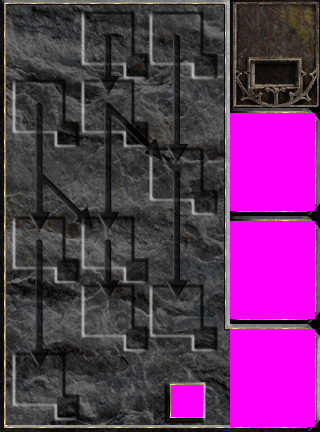
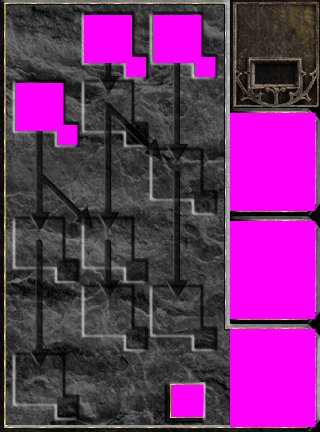
lam xong bang skill cho passive, chua lam resource nen thu tu skill se la tu` trái sang phải từ tren xuong dươi Chi co skill 2 khi click để cho len level thi bi crash

Changed region(s): [[0.25, 0.0301, 0.6875, 0.1806], [0.0312, 0.1806, 0.25, 0.3611]]

diff --git a/TheReturnOfTheKing/Misc/SkillBoard.cs b/TheReturnOfTheKing/Misc/SkillBoard.cs
@@ -310,47 +310,49 @@ namespace TheReturnOfTheKing
             get { return _passiveFrame; }
             set { _passiveFrame = value; }
         }
-
-        Button _btDamAndDefSkill;
-        public Button BtDamAndDefSkill
+        //Great Fortitude
+        Button _btGreatFortitude;
+        public Button BtGreatFortitude
         {
-            get { return _btDamAndDefSkill; }
-            set { _btDamAndDefSkill = value; }
+            get { return _btGreatFortitude; }
+            set { _btGreatFortitude = value; }
         }
 
-        Label _lbDamAndDefSkill;
-        public Label LbDamAndDefSkill
+        Label _lbbtGreatFortitude;
+        public Label LbbtGreatFortitude
         {
-            get { return _lbDamAndDefSkill; }
-            set { _lbDamAndDefSkill = value; }
+            get { return _lbbtGreatFortitude; }
+            set { _lbbtGreatFortitude = value; }
         }
 
-        Button _btMsAndAsSkill;
-        public Button BtMsAndAsSkill
+        //God Strength
+        Button _btGodStrength;
+        public Button BtGodStrength
         {
-            get { return _btMsAndAsSkill; }
-            set { _btMsAndAsSkill = value; }
+            get { return _btGodStrength; }
+            set { _btGodStrength = value; }
         }
 
-        Label _lbMsAndAsSkill;
-        public Label LbMsAndAsSkill
+        Label _lbGodStrength;
+        public Label LbGodStrength
         {
-            get { return _lbMsAndAsSkill; }
-            set { _lbMsAndAsSkill = value; }
+            get { return _lbGodStrength; }
+            set { _lbGodStrength = value; }
         }
 
-        Button _btMissSkill;
-        public Button BtMissSkill
+        //Blur
+        Button _btBlur;
+        public Button BtBlur
         {
-            get { return _btMissSkill; }
-            set { _btMissSkill = value; }
+            get { return _btBlur; }
+            set { _btBlur = value; }
         }
 
-        Label _lbMissSkill;
-        public Label LbMissSkill
+        Label _lbBlur;
+        public Label LbBlur
         {
-            get { return _lbMissSkill; }
-            set { _lbMissSkill = value; }
+            get { return _lbBlur; }
+            set { _lbBlur = value; }
         }
         #endregion
         //---------------------------------------------------------------------------------------------------
@@ -577,13 +579,59 @@ namespace TheReturnOfTheKing
             _btPassiveExit = (Button)_resources[1].CreateObject(13);
             _btPassiveExit.Mouse_Click += new Button.OnMouseClickHandler(SkillBoard_MouseClick_PassiveExit);
 
+            //Great Fortitude
+            _btGreatFortitude = (Button)_resources[1].CreateObject(37);
+            _btGreatFortitude.Owner = _character.ListPassiveSkill[0];
+            _btGreatFortitude.GetNewIdleTexture(_character.ListPassiveSkill[0].IdleIcon);
+            _btGreatFortitude.GetNewClickedTexture(_character.ListPassiveSkill[0].ClickedIcon);
+            _btGreatFortitude.Mouse_Click += new Button.OnMouseClickHandler(SkillBoard_MouseClick_GreatFortitude);
+            _btGreatFortitude.Mouse_Hover += new Button.OnMouseHoverHandler(SkillBoard_MouseHover_GreatFortitude);
+            _btGreatFortitude.Mouse_Released += new Button.OnMouseReleasedHandler(SkillBoard_MouseRelease_GreatFortitude);
+
+            _lbbtGreatFortitude = (Label)_resources[2].CreateObject(12);
+            _lbbtGreatFortitude.Owner = _character.ListPassiveSkill[0];
+            
+            //God Strenght
+            _btGodStrength = (Button)_resources[1].CreateObject(38);
+            _btGodStrength.Owner = _character.ListPassiveSkill[1];
+            _btGodStrength.GetNewIdleTexture(_character.ListPassiveSkill[1].IdleIcon);
+            _btGodStrength.GetNewClickedTexture(_character.ListPassiveSkill[1].ClickedIcon);
+            _btGodStrength.Mouse_Click += new Button.OnMouseClickHandler(SkillBoard_MouseClick_GodStrenght);
+            _btGodStrength.Mouse_Hover += new Button.OnMouseHoverHandler(SkillBoard_MouseHover_GodStrenght);
+            _btGodStrength.Mouse_Released += new Button.OnMouseReleasedHandler(SkillBoard_MouseRelease_GodStrenght);
+
+            _lbGodStrength = (Label)_resources[2].CreateObject(13);
+            _lbGodStrength.Owner = _character.ListPassiveSkill[1];
+
+            //BLur
+            _btBlur = (Button)_resources[1].CreateObject(39);
+            _btBlur.Owner = _character.ListPassiveSkill[2];
+            _btBlur.GetNewIdleTexture(_character.ListPassiveSkill[2].IdleIcon);
+            _btBlur.GetNewClickedTexture(_character.ListPassiveSkill[2].ClickedIcon);
+            _btBlur.Mouse_Click += new Button.OnMouseClickHandler(SkillBoard_MouseClick_Blur);
+            _btBlur.Mouse_Hover += new Button.OnMouseHoverHandler(SkillBoard_MouseHover_Blur);
+            _btBlur.Mouse_Released += new Button.OnMouseReleasedHandler(SkillBoard_MouseRelease_Blur);
+
+            _lbBlur = (Label)_resources[2].CreateObject(14);
+            _lbBlur.Owner = _character.ListPassiveSkill[2];
+
+            //Passive frame
             _passiveFrame = (GameFrame)_resources[0].CreateObject(4);
             _passiveFrame.AddChild(_btLeftSkillControl);
             _passiveFrame.AddChild(_btRightSkillControl);
             _passiveFrame.AddChild(_btPassiveSkillControl);
             _passiveFrame.AddChild(_btPassiveExit);
-            _boardFrame.AddChild(_passiveFrame);
 
+            _passiveFrame.AddChild(_btGreatFortitude);
+            _passiveFrame.AddChild(_lbbtGreatFortitude);
+
+            _passiveFrame.AddChild(_btGodStrength);
+            _passiveFrame.AddChild(_lbGodStrength);
+
+            _passiveFrame.AddChild(_btBlur);
+            _passiveFrame.AddChild(_lbBlur);
+
+            _boardFrame.AddChild(_passiveFrame);
             _iCurrentBoard = 0;
             _currentBoard = (GameFrame)_boardFrame.Child[_iCurrentBoard];
             _rect = new Rectangle((int)_boardFrame.X, (int)_boardFrame.Y, (int)_boardFrame.Width, (int)_boardFrame.Height);
@@ -646,6 +694,9 @@ namespace TheReturnOfTheKing
                     }
                 case 2:
                     {
+                        GetSkillLevel(_lbbtGreatFortitude);
+                        GetSkillLevel(_lbGodStrength);
+                        GetSkillLevel(_lbBlur);
                         break;
                     }
             }
@@ -953,6 +1004,54 @@ namespace TheReturnOfTheKing
             CreateMotion_GoOut();
             BoardFrame.Motion = MotionGoOut;
             BoardFrame.Motion.IsStanding = false;
+        }
+
+        //Great Fortitude
+        public void SkillBoard_MouseClick_GreatFortitude(object sender, EventArgs e)
+        {
+            LevelUp((Button)sender);
+        }
+
+        public void SkillBoard_MouseHover_GreatFortitude(object sender, EventArgs e)
+        {
+            ShowDetailSkill((Button)sender);
+        }
+
+        public void SkillBoard_MouseRelease_GreatFortitude(object sender, EventArgs e)
+        {
+            HideDetailSkill((Button)sender);
+        }
+
+        //GodStrenght
+        public void SkillBoard_MouseClick_GodStrenght(object sender, EventArgs e)
+        {
+            LevelUp((Button)sender);
+        }
+
+        public void SkillBoard_MouseHover_GodStrenght(object sender, EventArgs e)
+        {
+            ShowDetailSkill((Button)sender);
+        }
+
+        public void SkillBoard_MouseRelease_GodStrenght(object sender, EventArgs e)
+        {
+            HideDetailSkill((Button)sender);
+        }
+
+        //Blur
+        public void SkillBoard_MouseClick_Blur(object sender, EventArgs e)
+        {
+            LevelUp((Button)sender);
+        }
+
+        public void SkillBoard_MouseHover_Blur(object sender, EventArgs e)
+        {
+            ShowDetailSkill((Button)sender);
+        }
+
+        public void SkillBoard_MouseRelease_Blur(object sender, EventArgs e)
+        {
+            HideDetailSkill((Button)sender);
         }
         #endregion
 

diff --git a/TheReturnOfTheKing/Misc/HealthBar.cs b/TheReturnOfTheKing/Misc/HealthBar.cs
@@ -256,6 +256,14 @@ namespace TheReturnOfTheKing
                         }
                     case 2:
                         {
+                            if (((Skill)_character.Skillboard.BtGreatFortitude.Owner).CurrentButton == _character.Skillboard.BtGreatFortitude)
+                                ((Skill)_character.Skillboard.BtGreatFortitude.Owner).Draw(gameTime, sb);
+
+                            if (((Skill)_character.Skillboard.BtGodStrength.Owner).CurrentButton == _character.Skillboard.BtGodStrength)
+                                ((Skill)_character.Skillboard.BtGodStrength.Owner).Draw(gameTime, sb);
+
+                            if (((Skill)_character.Skillboard.BtBlur.Owner).CurrentButton == _character.Skillboard.BtBlur)
+                                ((Skill)_character.Skillboard.BtBlur.Owner).Draw(gameTime, sb);
                             break;
                         }
                 }
